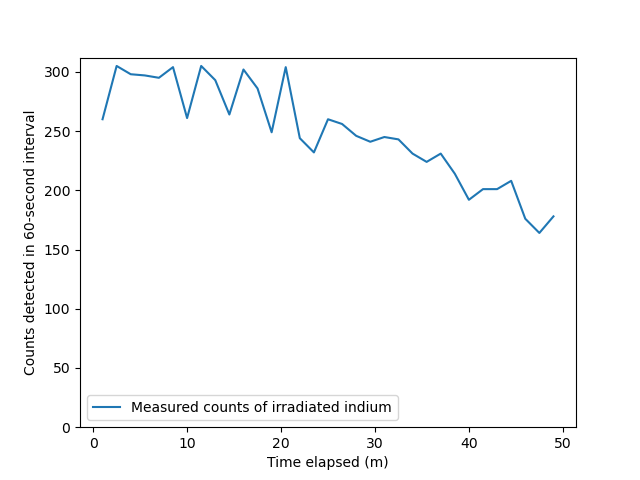
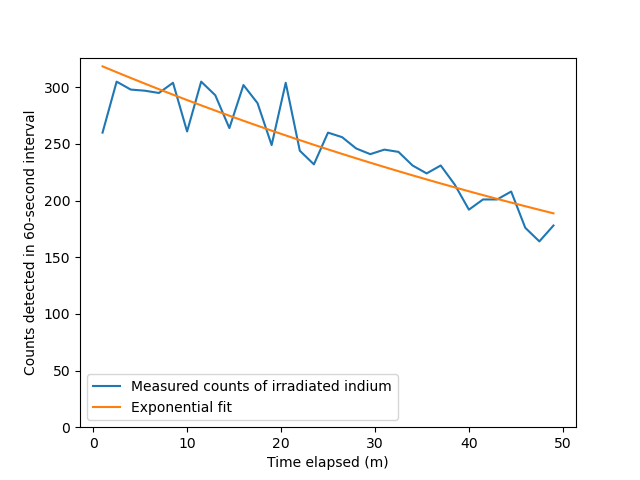
Results for experiment 3

diff --git a/main.tex b/main.tex
@@ -1,7 +1,7 @@
 \documentclass[12pt]{article}
 \usepackage{graphicx} % Required for inserting images
 
-\title{Lab 3: }
+\title{Lab 3: Proportional Counters and Geiger Muller (GM) Counters}
 \author{Owen Strong \\
 \itshape Prof.: Angela DiFulvio\\
 \itshape TA: Kholod Mahmoud \\
@@ -19,6 +19,7 @@
 \newcommand{\figwidth}{0.75\linewidth}
 
 \newcommand{\micCi}{$\mathrm{\mu Ci}$}
+\newcommand{\InMeta}{$\mathrm{^{116m}In}$}
 
 \usepackage{placeins} % FloatBarrier
 \usepackage{amsmath} % align
@@ -35,11 +36,35 @@
 
 \section{Introduction and Background}
 
+
+\subsection{Half Life and activity}
+Every nucleus of a specific radioactive species, has a definite probability within a unit of time of decaying.\cite{npre_lab_3_manual_2025}
+As a result, the rate of decay of a given specimen of that isotope at a given instant is directly proportional to the total number of isotope nuclei present:
+\begin{equation}
+    \frac{dN}{dt}=-\lambda N
+\end{equation}
+where $N$ corresponds to the number of isotopes present at a time $t$.
+The constant $\lambda$ is a ``decay constant'' specific to the isotope, and is a measure of decay probability per unit time.
+Separating and integrating this relation yields an exponential description of isotope quantity within that specimen:
+\begin{equation}\label{eq:decay}
+    N(t)=N_0e^{-\lambda t}
+\end{equation}
+where $N_0$ corresponds to the quantity at time $t=0$.\\
+
+A more common way than $\lambda$ of describing the decay of a given radioactive species is the half-life, denoted $t_{1/2}$.
+The half life represents the amount of time after which half of the original sample will have decayed, and may be given by the formula:
+\begin{equation}\label{eq:half-life}
+    t_{1/2} = \frac{\ln(2)}{\lambda}
+\end{equation}
+
+This quantity is readily available for most radioactive species in data collections such as those published by the Korean Atomic Energy Research Institute.\cite{noauthor_atomkaerirekrcgi-binnuclidenucin116_nodate}
+
 \section{Experimental Procedure}\label{sec:methods}
 \section{Experimental Results}\label{sec:results}
+After performing the above procedures, we observed the following results:
 
 %%%% Experiment 1
-
+\subsection{Experiment 1: Measurement of the Counting Curve}
 % Plot the counting curve for the GM counter. Report the plateau slope.
 For a range of voltage bias settings, we measured detector pulses successfully recorded over 30-second periods with a $0.1$~.
 These counts are compared to the biases used in Figure~\ref{fig:exp1-bias-v-counts}.
@@ -66,6 +91,8 @@ Optimizing for this motivation, an appropriate voltage might be one at the start
 Between experiment 2 and experiment 3, upon feedback from the professor we decided to instead prioritize minimal dead time loss, and changed our voltage supply bias to 700V. 
 Experiment 3 was conducted at this lower voltage.\\
 
+
+\subsection{Dead Time Measurement}
 % Experiment 2
 The pulse output behavior of the GM Detector was measured and compared over prolonged exposure.
 Using the Oscilloscope set to visualize signal traces, the combined trace of these signals compared in time to the signal before them can be seen in Figure~\ref{fig:exp2-osc-dead}.\\
@@ -138,7 +165,7 @@ we calculated the uncertainty of the dead time $\tau$ as a function of $m_1$, $m
 \end{equation}
 
 Using Equations~\ref{eq:dead-time} through \ref{eq:t-unc}, we calculated a dead time of $9.460\pm36.700$~ms.
-Our full numerical calculations are demonstrated at \url{https://www.desmos.com/calculator/6eplmvfm3o}.
+Demonstrations of our full numerical calculations may be found at \url{https://www.desmos.com/calculator/6eplmvfm3o}.
 % What the counts were, associated rates and uncertainty were
 % Set up system of equations for dead time of detector usning the two sources that we assume are equal using their gross count rates
 % Solve for associated uncertainty Do we show formula for that?
@@ -146,12 +173,34 @@ Our full numerical calculations are demonstrated at \url{https://www.desmos.com/
 
 
 % Experiment 3
+\FloatBarrier\subsection{Experiment 3: Rate of Radioactive Decay}
+
+As measured by GM detector counts within a span of 60 seconds, we measured activity of the \InMeta foil sample every 90 seconds over a period of approximately 49 minutes.
+The relative activity of the sample through these counts over time can be observed in Figure~\ref{fig:exp2-116m}.\\
+
+\begin{figure}[!htb]
+    \centering
+    \includegraphics[width=\figwidth]{figs/Exp3_in116-activity.png}
+    \caption{Relative activity (as measured by GM detector counts over 60 seconds) of the \InMeta source every 90 seconds over a period spanning 49.5 minutes.}
+    \label{fig:exp3-in116m}
+\end{figure}
+
+As seen in Equation~\ref{eq:decay}, we expect the remaining quantity of an isotope, and thus its activity, to follow an exponential decay with respect to time.
+If we take the natural logarithm of the expected activity:
+\begin{equation}\label{eq:log-decay}
+    \ln(N)=-\lambda t + \ln(N_0)
+\end{equation}
+we find that we expect a linear relationship, where slope corresponds to the isotope's decay constant $\lambda$.
+Using Equation~\ref{eq:log-decay}, we fit a linear relationship between the logarithm of a measurement and the elapsed time before that measurement.
+We found a reasonable relationship ($R^2=0.806$), with a slope $-\lambda=-0.0109$.
+Using Equation~\ref{eq:half-life}, we calculated an estimated half life of $63.606$~minutes.
 % Yada yada were measured for over 45 minutes
 % plotted in figure deeedum
 % calculate half life, showing regression
 % Explain how curve doesn't look that curvy because we only record for 45 minutes, compared to the half life of about an hour so any noise keeps it from looking right.
 \FloatBarrier
 \section{Discussion}\label{sec:disc}
+
 \section{Conclusions}\label{sec:conc}
 
 \appendix

diff --git a/lab3_plots.py b/lab3_plots.py
@@ -65,14 +65,14 @@ plat_creg = np.array(plat_v)*m + b
 slope = (counts[plat_idx[-1]]-counts[-plat_idx[0]]) / (biases[plat_idx[-1]] - biases[plat_idx[0]])
 
 
-plt.xlabel("High voltage power supply Bias setting (V)")
-plt.ylabel("Measured Counts over 30 seconds")
-plt.plot(biases, counts, label="Measured Counts")
-# plt.plot([biases[i] for i in plat_idx], [counts[i] for i in plat_idx], label=f"Plateau Region (Slope: {slope} Counts/Volt)")
-plt.plot(plat_v, plat_creg, label=f"Plateau region (Slope: {m:.3f} counts per V)")
+# plt.xlabel("High voltage power supply Bias setting (V)")
+# plt.ylabel("Measured Counts over 30 seconds")
+# plt.plot(biases, counts, label="Measured Counts")
+# # plt.plot([biases[i] for i in plat_idx], [counts[i] for i in plat_idx], label=f"Plateau Region (Slope: {slope} Counts/Volt)")
+# plt.plot(plat_v, plat_creg, label=f"Plateau region (Slope: {m:.3f} counts per V)")
 
-plt.legend()
-plt.show()
+# plt.legend()
+# plt.show()
 
 
 #### Experiment 3
@@ -128,14 +128,14 @@ fit_counts = np.exp(times*m + b)
 hl = -np.log(2) / m
 print(f"Half life: {hl} minutes")
 
-# plt.plot(times, counts, label="Measured counts of irradiated indium")
-# plt.plot(times, fit_counts, label="Exponential fit")
-# bot, top = plt.ylim()
-# plt.ylim(0, top)
+plt.plot(times, counts, label="Measured counts of irradiated indium")
+plt.plot(times, fit_counts, label="Exponential fit")
+bot, top = plt.ylim()
+plt.ylim(0, top)
 
-# plt.xlabel("Time elapsed (m)")
-# plt.ylabel("Counts detected in 60-second interval")
+plt.xlabel("Time elapsed (m)")
+plt.ylabel("Counts detected in 60-second interval")
 
-# plt.legend()
-# plt.show()
+plt.legend()
+plt.show()
 
